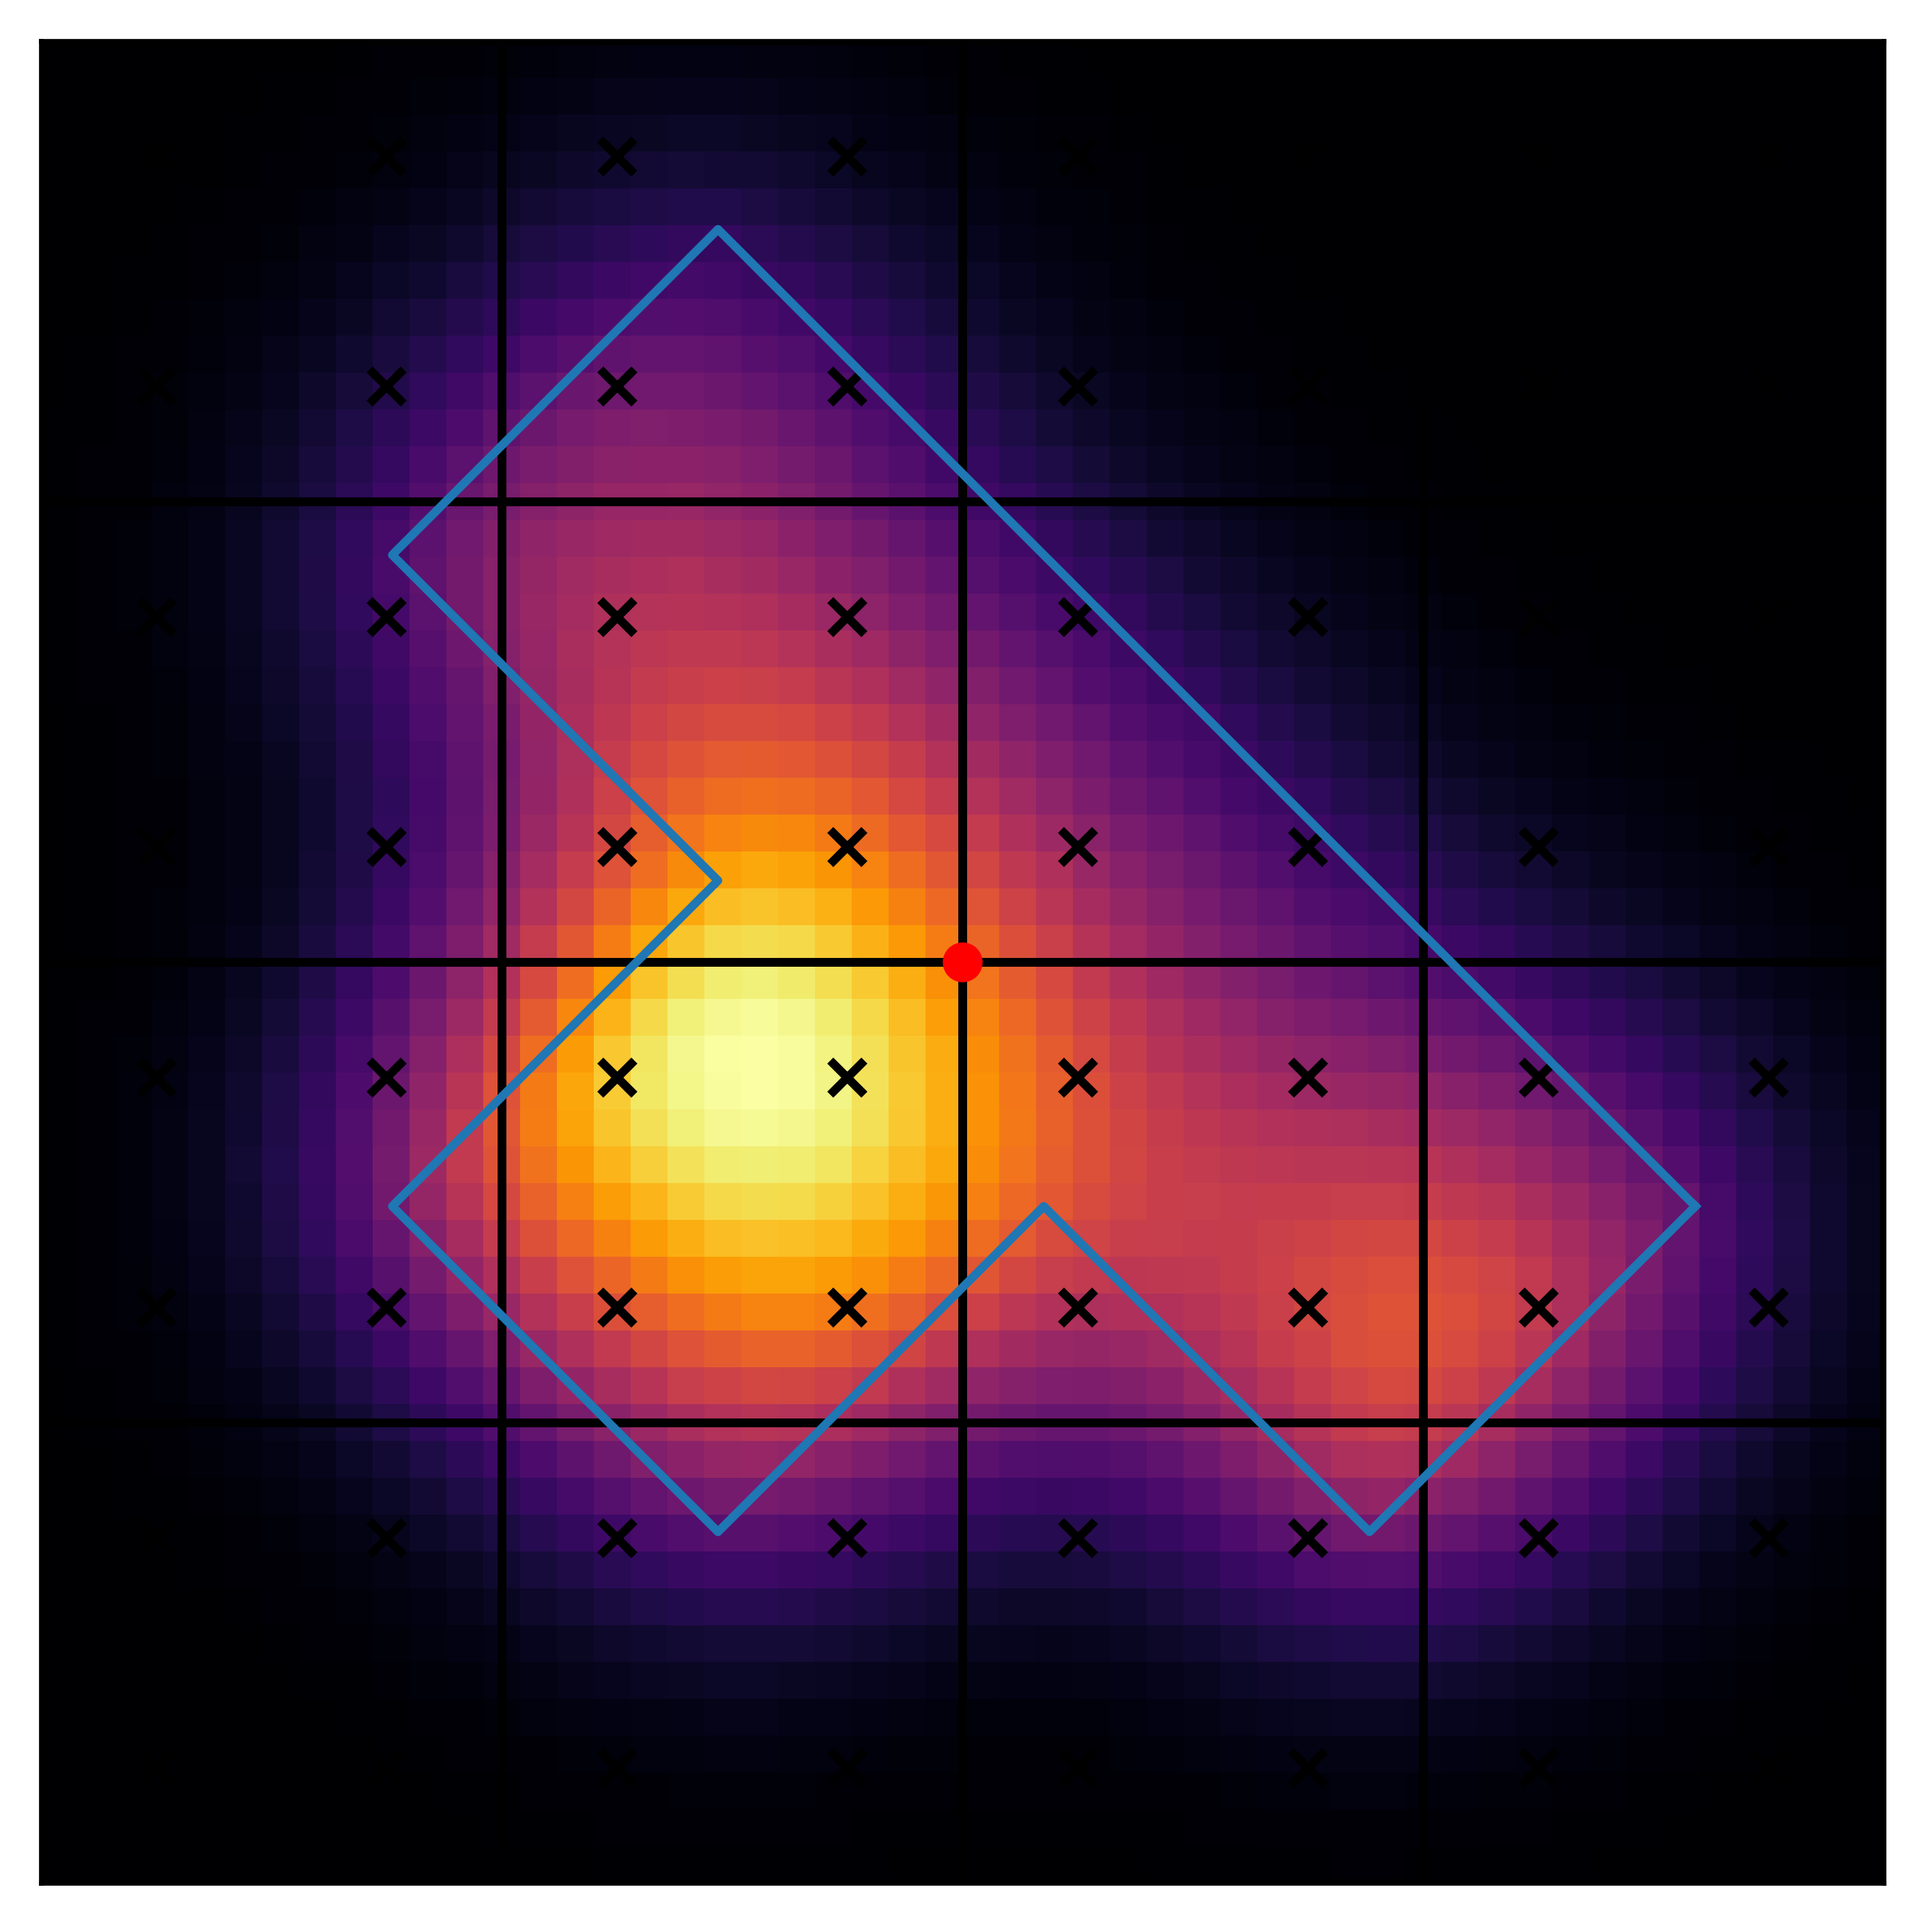
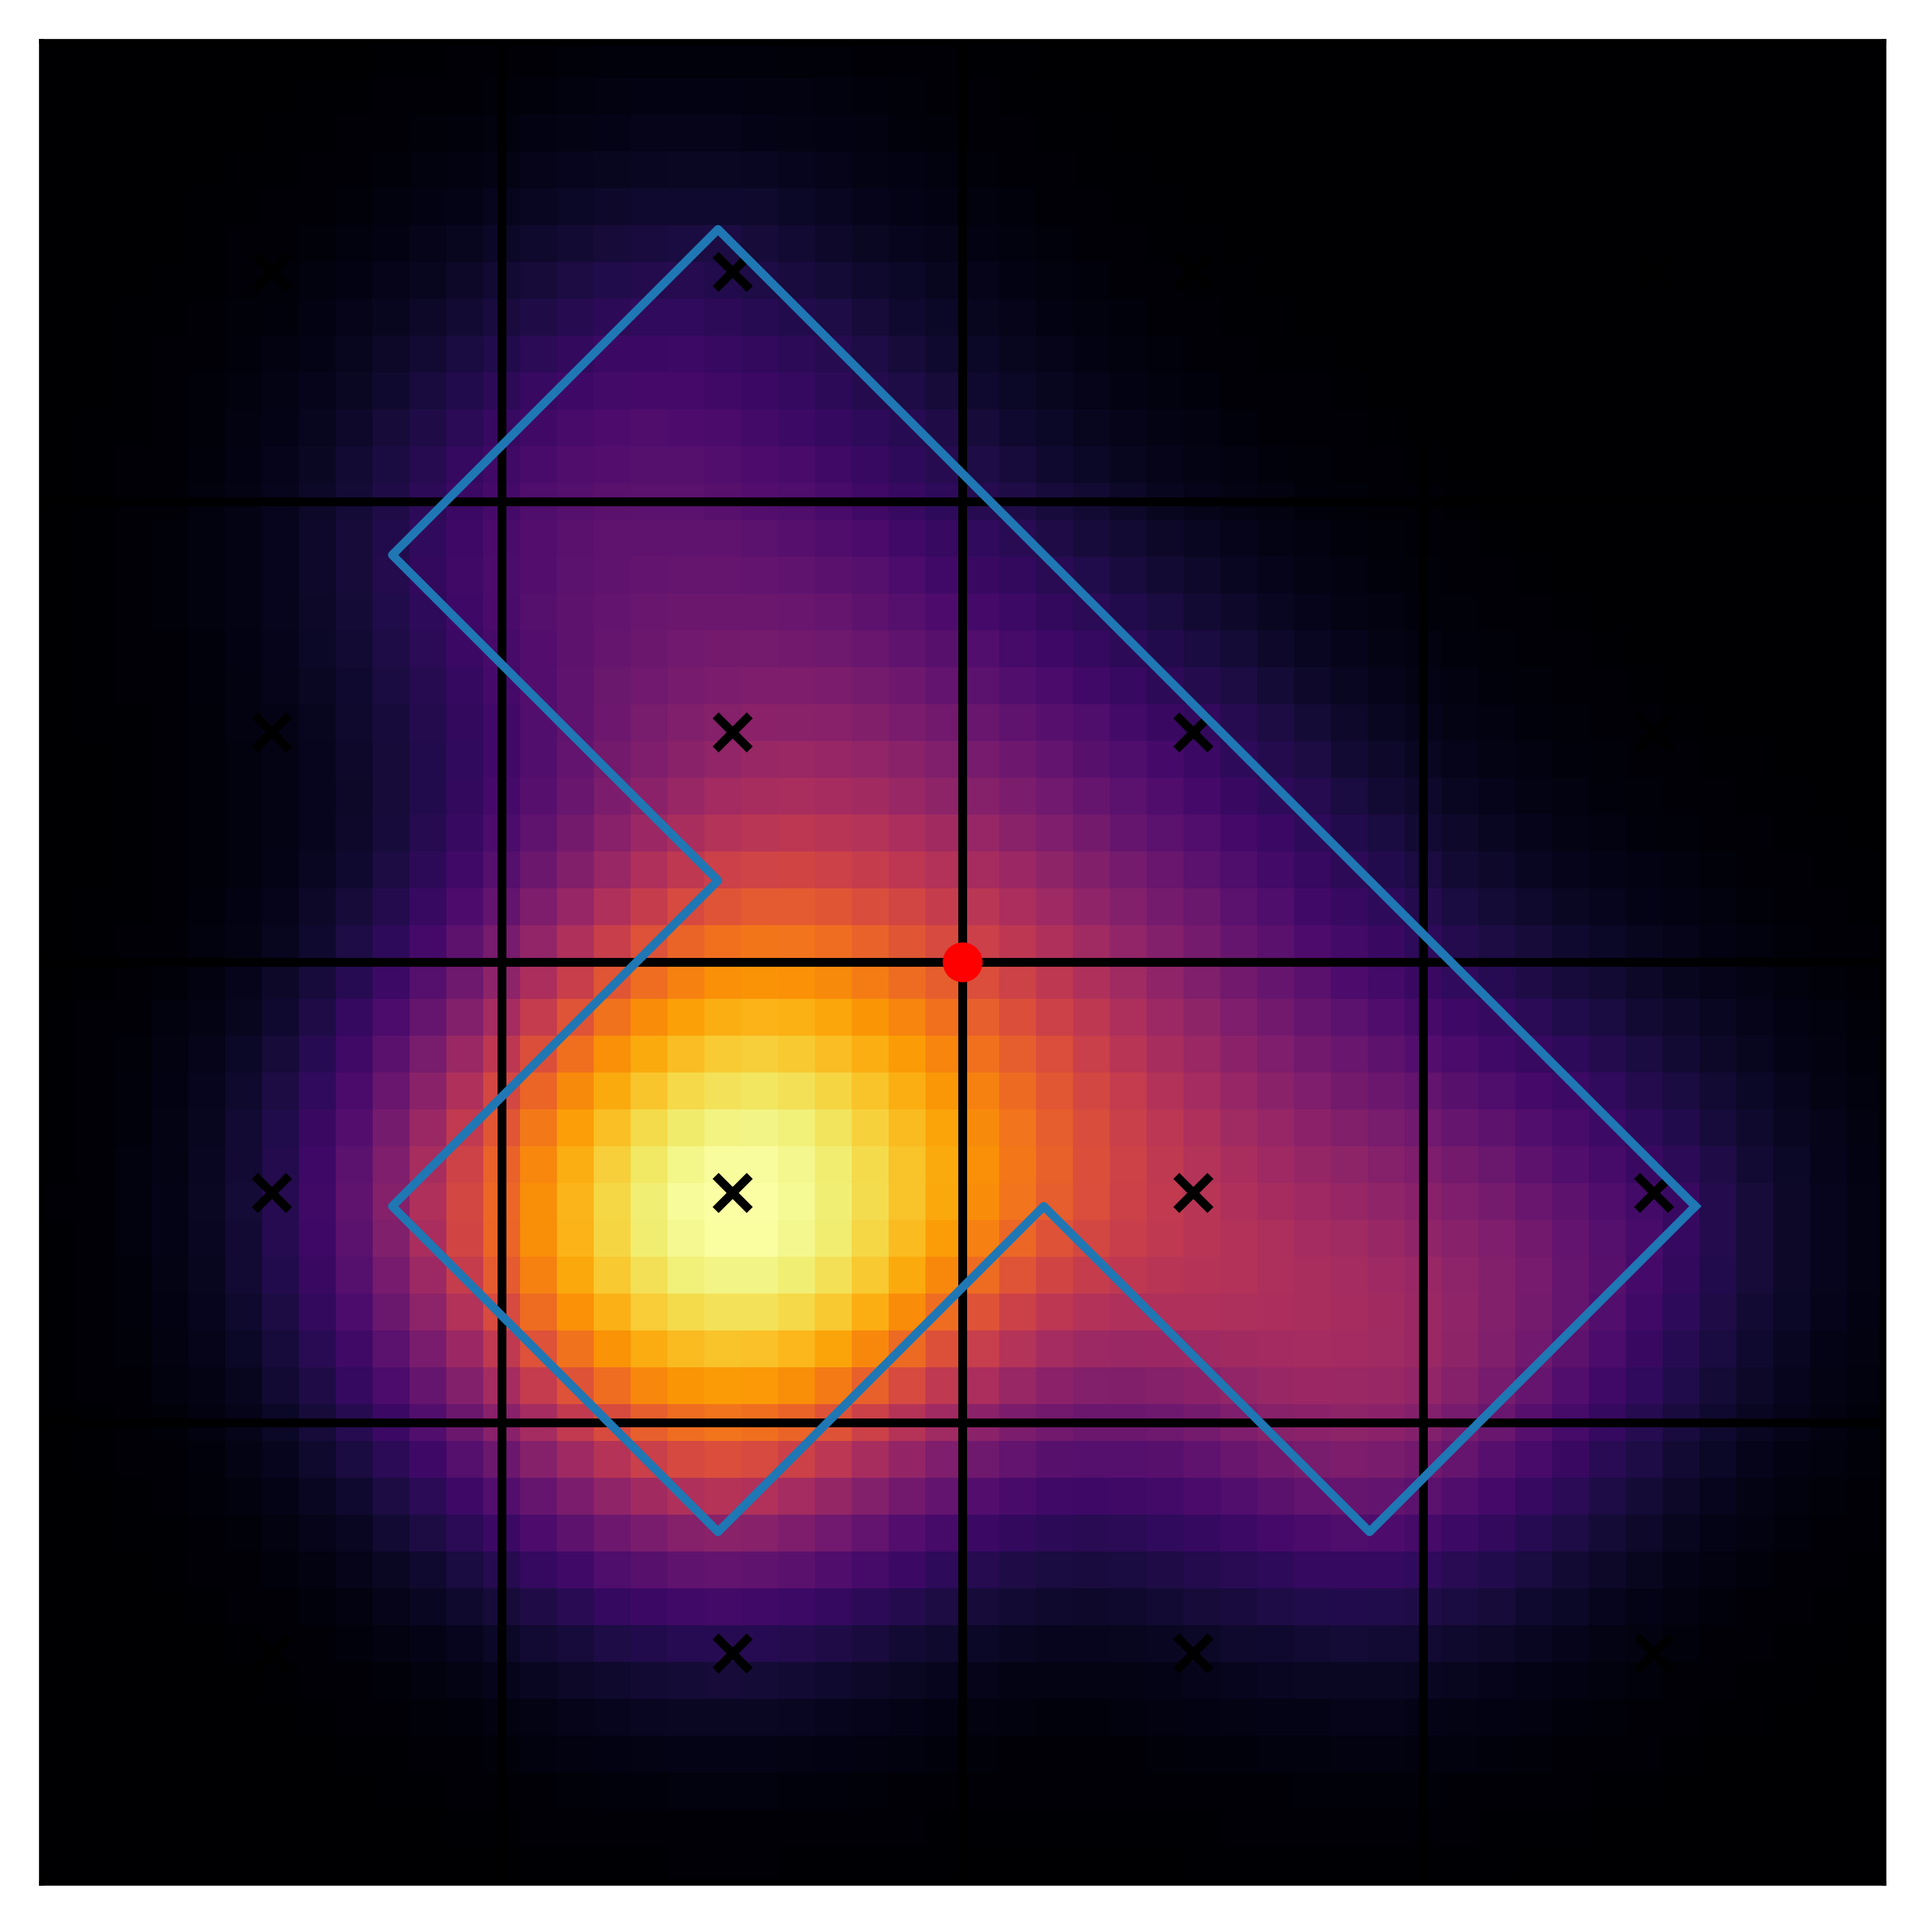
some real data process

diff --git a/RealData.py b/RealData.py
@@ -1,0 +1,49 @@
+import os
+import sys
+import pandas as pd
+import numpy as np
+import ast
+import pickle
+
+def explore_data_path(data_path):
+
+    df = pd.DataFrame(columns=['shape', 'cm_x', 'cm_y', 'uncalibrated_records'])
+    for root, dirs, files in os.walk(data_path):
+        if files == []: continue
+        if dirs != []: continue
+
+        try:
+            shape = root[-4]
+            cm_estimation = pd.read_csv(root + '/center_of_mass_estimate.csv')['CAMERA'].tolist()
+            uncalibrated_records = pd.read_csv(root + '/uncalibrated_sensor_data.csv').iloc[:, 1:].values.tolist()
+        except:
+            print('Something wrong in ' + root)
+            continue
+      
+
+        sub_data = {
+        'shape': [shape] * len(uncalibrated_records),
+        'cm_x': [cm_estimation[0]] * len(uncalibrated_records),
+        'cm_y': [cm_estimation[1]] * len(uncalibrated_records),
+        'uncalibrated_records': list(uncalibrated_records)
+        }
+
+        sub_df = pd.DataFrame(sub_data)
+        df = pd.concat([df, sub_df], axis=0)
+
+    def _convert_to_list_or_array(x):
+        try:
+            return np.array(ast.literal_eval(x)) if isinstance(x, str) else x
+        except ValueError:
+            return x  # In case there's an issue with the conversion
+
+    df.iloc[:, -1] = df.iloc[:, -1].apply(_convert_to_list_or_array)
+    data = df.values
+
+    with open('RealData.pkl', 'wb') as f:
+        pickle.dump(data, f)
+
+if __name__ == '__main__':
+    data_path = 'Dataset'
+    explore_data_path(data_path)
+    

diff --git a/Environment/WTetromino.py b/Environment/WTetromino.py
@@ -16,6 +16,9 @@ class WTetromino:
         self.__mass_points = Polygon(generate_points(shape, scaler))
 
     @property
+    def polygon(self) -> Polygon:
+        return self.__polygon
+    @property
     def center(self) -> tuple:
         center = self.__polygon.centroid.coords.xy
         return np.array([center[0][0], center[1][0]])
@@ -59,16 +62,14 @@ class WTetromino:
         self.__polygon = shapely.affinity.translate(self.__polygon, xoff=direction[0], yoff=direction[1], zoff=0.0)
         self.__mass_points = shapely.affinity.translate(self.__mass_points, xoff=direction[0], yoff=direction[1], zoff=0.0)
 
-    def plot(self) -> None:
+    def plot(self, show = False) -> None:
         x_values, y_values = zip(*self.vertices)
         plt.plot(x_values, y_values)  # Plot the vertices
         plt.plot(self.center[0],self.center[1], 'ro')  # Mark the first vertex with a red dot
-        #plt.scatter(self.mass_points[:,0], self.mass_points[:,1], c='black', alpha=0.5)
-        
+        #plt.scatter(self.mass_points[:,0], self.mass_points[:,1], c='black', alpha=0.5) 
         plt.gca().set_aspect('equal', adjustable='box')
-        plt.show()
+        if show: plt.show()
     
-
     
     def print_info(self) -> None:
         print('center: {}'.format(self.center))

diff --git a/Environment/ContactBoard.py b/Environment/ContactBoard.py
@@ -36,7 +36,7 @@ class ContactBoard:
     def get_contact_mask(self, tetromino: WTetromino) -> np.array:
         contact_mask = np.zeros(self.board_shape, dtype=int)
         for tile in self.tiles:
-            if tetromino.polygon.buffer(1e-6).contains(tile.sensor):
+            if any(tetromino.polygon.buffer(1e-6).contains(sensor) for sensor in tile.sensors):
                 row_index = self.board_shape[0] - tile.matrix_position[1] - 1
                 col_index = tile.matrix_position[0]
                 contact_mask[row_index, col_index] = 1
@@ -51,10 +51,9 @@ class ContactBoard:
         if tetromino is not None:
             tetromino.plot()
 
-
         if tetromino and plot_density:
             DENSITY_CMAP = 'inferno'#'viridis'
-
+            
             ax = plt.subplot()
             circles_positions = tetromino.mass_points            
             
@@ -89,4 +88,8 @@ if __name__ == '__main__':
     cb.plot(tetromino=tetromino)
     cm = cb.get_contact_mask(tetromino)
     print(cm)
+    tetromino.rotate(-45)
+    cm = cb.get_contact_mask(tetromino)
+    print(cm)
+    
     pass

diff --git a/Environment/MSTile.py b/Environment/MSTile.py
@@ -3,7 +3,6 @@ import shapely.affinity
 import numpy as np
 from matplotlib import pyplot as plt
 
-
 class MultiSensoryTile:
     def __init__(self, tile_size:float = 1, sensor_number = 1) -> None:
         self.TS = tile_size
@@ -42,14 +41,13 @@ class MultiSensoryTile:
     def __str__(self) -> str:
         return (self.center, self.matrix_position)
 
-    def plot(self):
+    def plot(self, show = False) -> None:
         x, y = self.polygon.exterior.xy
         plt.plot(x, y, color='black')
         for sensor in self.sensors:
             plt.scatter(sensor.x, sensor.y, color='black', marker='x')
-
         plt.gca().set_aspect('equal', adjustable='box')
-        plt.show()
+        if show: plt.show()
         
 if __name__ == '__main__':
     pass
